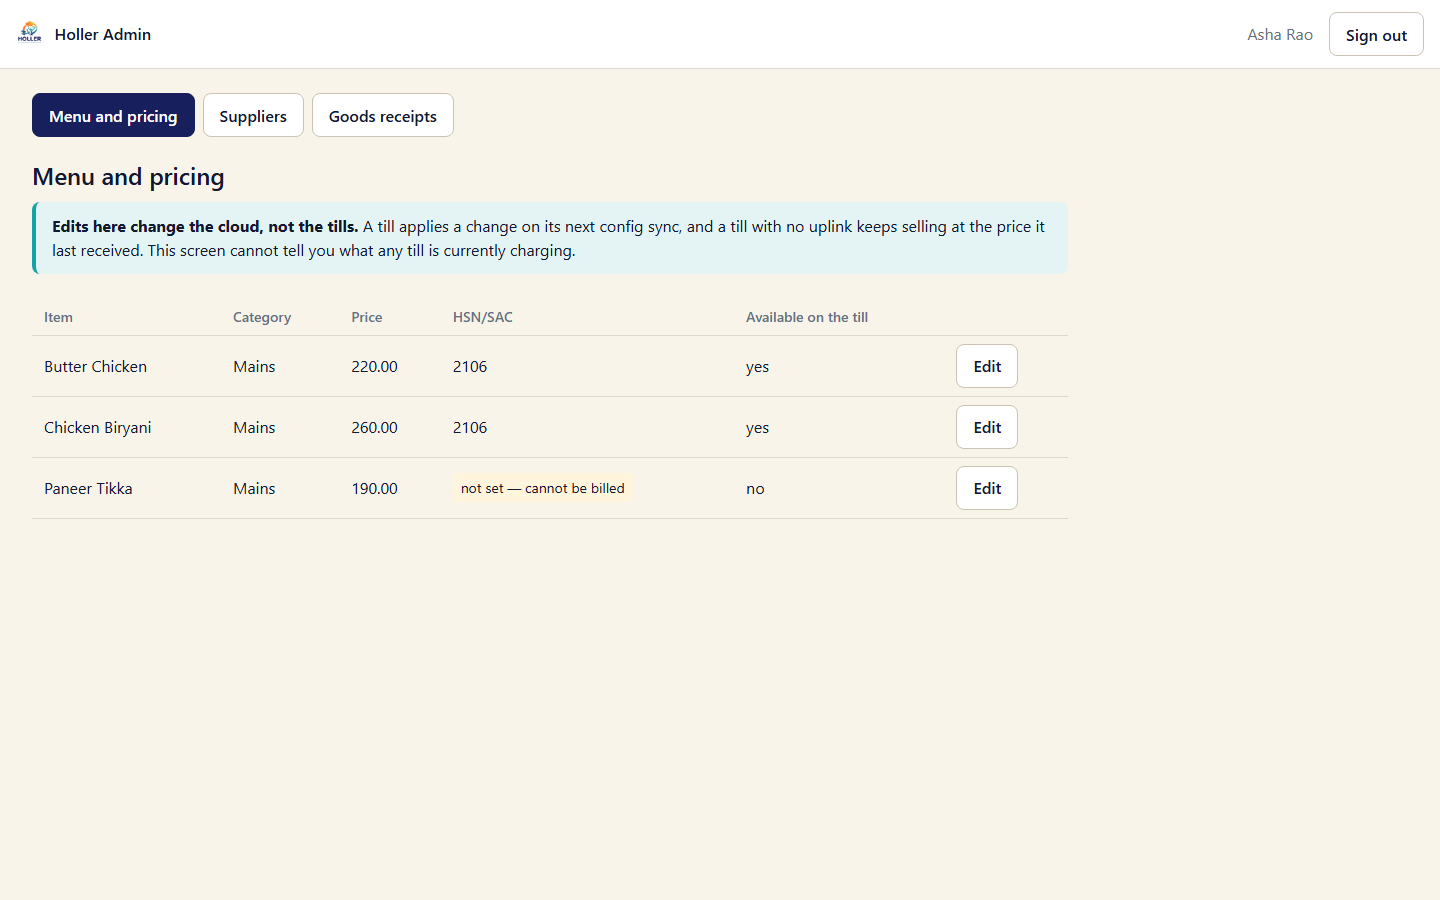
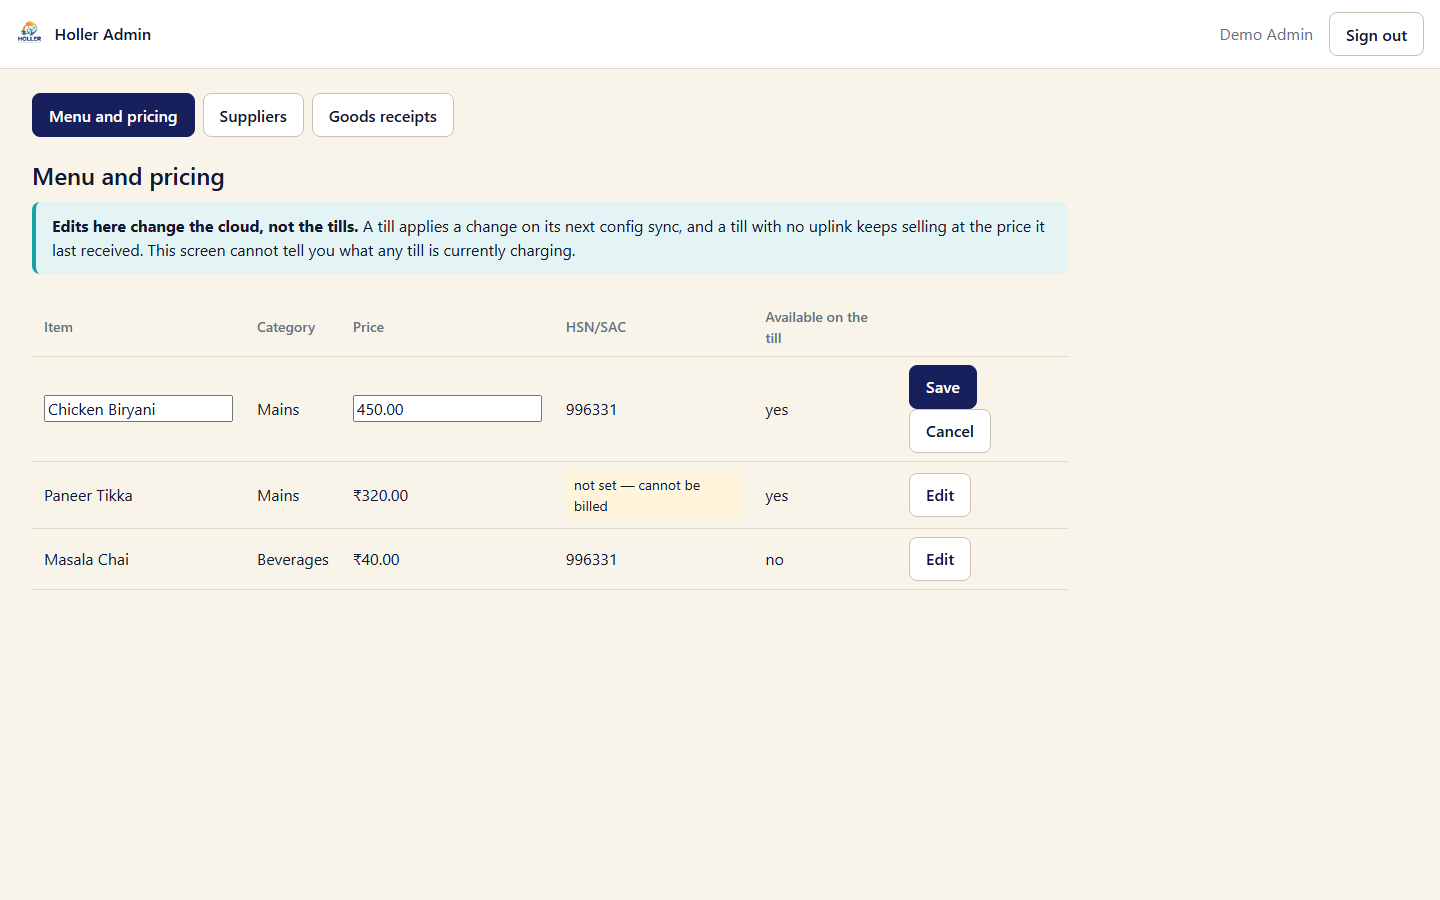
docs(demo-screens): T22 — re-capture stale admin-menu, add pos-aggregator-orders
admin-menu.png was stale since 3ae0ba4's money-formatting pass (missing the
₹ prefix and .money tabular figures). Re-captured; confirmed the display
cell reads ₹450.00 while the same row's price <input> mid-edit reads
450.00 (plain decimal, no ₹) — the designed round-trip-safe behaviour, not
a bug.

pos-aggregator-orders.png (AggregatorOrdersScreen, demo step 6) had never
been captured. Fixture carries one matched line (resolves to the menu
item's name) and one unmatched line ("not matched"), so the capture
exercises the previously-fixed matched/unmatched display path rather than
only the unmatched half.

No application code changed; apps/admin/ and apps/pos/ untouched. Set is
now 21 files, all pairwise MD5-distinct (recorded in index.md).

Claude-Session: https://claude.ai/code/session_01MaG9XPvUs2rtAbtEF8yzNp

diff --git a/docs/demo-screens/index.md b/docs/demo-screens/index.md
@@ -1,5 +1,101 @@
 # Demo screens — presentability check (T14 follow-up, T19 controls/header pass)
 
+## T22 update (2026-09-11) — `admin-menu.png` re-captured, `pos-aggregator-orders.png` captured (first ever)
+
+Closes the presentability set. **No application code changed in this pass** —
+`apps/admin/` and `apps/pos/` are read-only to this track; both are exactly as
+T20/T21 left them.
+
+### `admin-menu.png` — re-captured
+
+Stale since `3ae0ba4` (admin money-formatting pass): the committed image
+predated `formatPaiseAsRupees`'s ₹ prefix and `.money` tabular figures on
+`MenuScreen`. Re-captured against the running `apps/admin` dev server
+(`pnpm dev`, port 5175), signed in, and — since `MenuScreen` starts on the
+"Menu and pricing" tab by default, no further in-app navigation was needed —
+asserted **both** money renderings before capture: the display cell for
+"Chicken Biryani" reads `₹450.00`, and after clicking that row's "Edit"
+button the price `<input>`'s value is `"450.00"` (plain decimal, no ₹
+prefix). **Both confirmed present and correct — this is the designed
+behaviour, not a bug**: the input is deliberately unprefixed because it
+round-trips through `parseRupeesToPaise` on save, and a ₹ in that string
+would break the parse. The captured image shows the Chicken Biryani row
+mid-edit (its `Save`/`Cancel` buttons and plain-decimal input visible) beside
+Paneer Tikka and Masala Chai still in display mode (`₹320.00`, `₹40.00`),
+so both states are visible in the one frame.
+
+Mocked via `page.route` against contract-shaped fixtures (`POST /auth/login`,
+`GET /menu/items`, `GET /menu/categories`, plus empty-list stubs for
+`/procurement/suppliers` and `/procurement/goods-receipts` so those tabs stay
+inert); no `page.goto` after sign-in. Throwaway script
+(`shoot-admin-menu.mjs`, session scratch directory), deleted after the
+capture.
+
+### `pos-aggregator-orders.png` — captured for the first time
+
+`AggregatorOrdersScreen` (demo step 6, the optional ONDC step) was
+token-converted and `.money`-applied in an earlier pass but never
+screenshotted. Captured against the running `apps/pos` dev server (`pnpm
+dev`, port 5173) with `window.__TAURI_INTERNALS__.invoke` mocked via
+`addInitScript` (no real Tauri shell here): `login`, `list_menu_items`,
+`list_menu_categories`, `list_menu_item_variants` (empty), `list_tables`
+(empty), `get_active_draft_order` (null), and
+`list_unaccepted_aggregator_orders` returning one ONDC document with two
+lines. Navigated by clicking "Platform Orders" on `PosScreen` after login —
+never a `page.goto` reload (the in-memory `useAuthStore` would drop).
+
+**The fixture deliberately carries one matched line and one unmatched
+line**, per the task note that an earlier pass fixed a defect where a
+matched line showed the raw `menu_item_id` and only an unmatched line showed
+a name — backwards from what the fixed code does. Confirmed on screen before
+capture: the matched line ("Chicken Biryani (Full)") resolves in the
+"Matched to this menu" column to the item's **name**, `"Chicken Biryani"`
+(never the UUID); the unmatched line ("Weekend Thali Combo") shows
+`"not matched"` in that column and its own platform-supplied name in the
+item column. Both are visible together in the captured frame, so the
+screenshot exercises the fixed path rather than only the unmatched one.
+
+Throwaway script (`shoot-pos-aggregator.mjs`, session scratch directory),
+deleted after the capture.
+
+### Full current set, MD5, 21 files pairwise distinct
+
+```
+0f4758073f2139056caa9eccb1907398  captain-tables.png
+1c85a41d8a44bc23c94f071c7561425f  pos-order-list-empty.png
+1cbd58a26aca8c5292ad7308cb417461  pos-receiving.png
+412a572f9d01d7ebb3080ce0c47299f0  captain-pair.png
+50ae7ecf0fdf025e7157d37efd768419  captain-modifier-sheet.png
+55e95f8bc0eff9f9f3c0a8d878437237  admin-sign-in.png
+65ef593004e37f919c9a7b62171d6764  admin-goods-receipts.png
+6e3528a35bd33115d797d72d165d94de  pos-crash-screen.png
+7acadd1008c32911ba0bb771846b827e  pos-billing-upi-qr.png
+887b0c7e3e1224f744da1bf38f3d4f03  pos-current-stock.png
+898c22bafbb4ebf8493362c8d8c2f332  kds-ticket.png
+92f4fd83078de61f1294d0205e92a560  pos-billing.png
+9e975e907ab7084a7248714e98594f8e  captain-menu-cart.png
+a0b782731c989abddf2905651cd371c2  pos-grn-gaps.png
+a15138dc8bce8025d57f0d1f81ef6e8e  captain-sent.png
+b9ee734280214518ab808bbf11fa1782  admin-menu.png
+ca2946ee5e1d61fa4322571e789dc47f  pos-order-list.png
+d21c25d317e82c94d8ebbb368a5e0669  admin-suppliers.png
+d2c0985bacbad90897a2d8803a9ce3db  pos-order-list-kots.png
+db1c969ea99617e31c16bd260d68b162  pos-purchase-return.png
+f4cf0bdc20616b063f8270ff81fd5b97  pos-aggregator-orders.png
+```
+
+21 files, 21 distinct hashes. `admin-menu.png`'s hash changed from
+`a0c246eff50ee9772cc18649cc7685e2` (T20/T21, stale) to
+`b9ee734280214518ab808bbf11fa1782` (this pass). `pos-aggregator-orders.png`
+is new.
+
+### Screen table addition
+
+| File | Screen | Demo step | What it shows |
+|---|---|---|---|
+| `admin-menu.png` | Admin — Menu and pricing | Step 5 | ₹-prefixed display prices on two rows, the third row mid-edit showing the plain-decimal (unprefixed) price input — both money renderings intentional, side by side |
+| `pos-aggregator-orders.png` | POS — Delivery-Platform Orders | Step 6 (optional, ONDC) | One ONDC document with a matched line (resolves to the menu item's name) and an unmatched line (shows "not matched"), exercising the fixed matched/unmatched display path |
+
 ## T20 update (2026-09-11) — billing screen fixes, re-taken `pos-billing.png`
 
 T19's `pos-billing.png` was captured without `VITE_HOLLER_DEMO_UPI_VPA` set,
